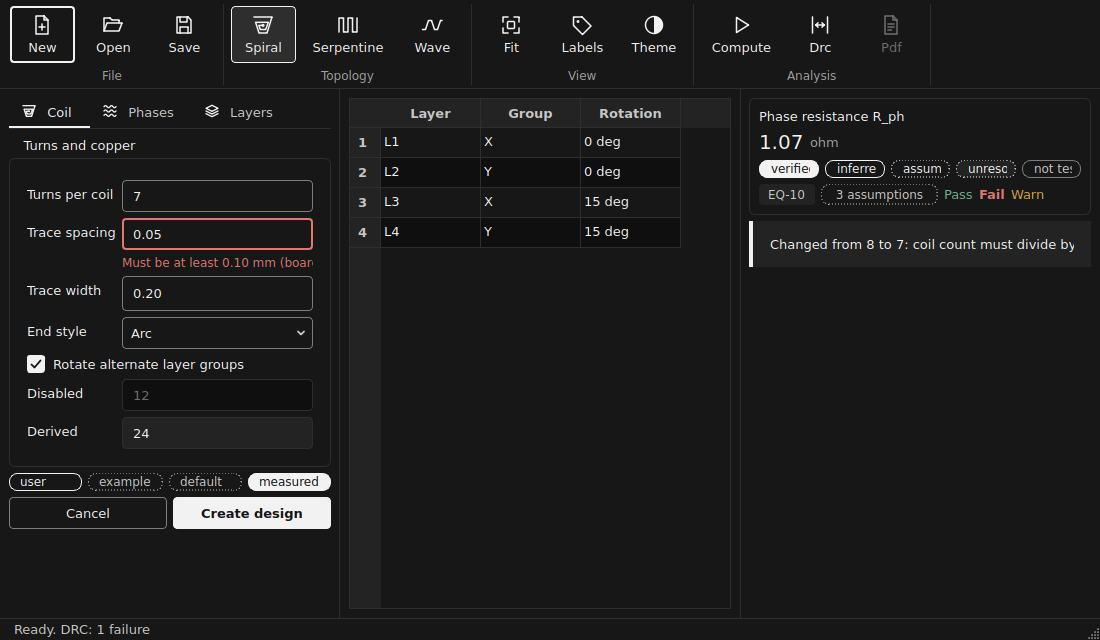
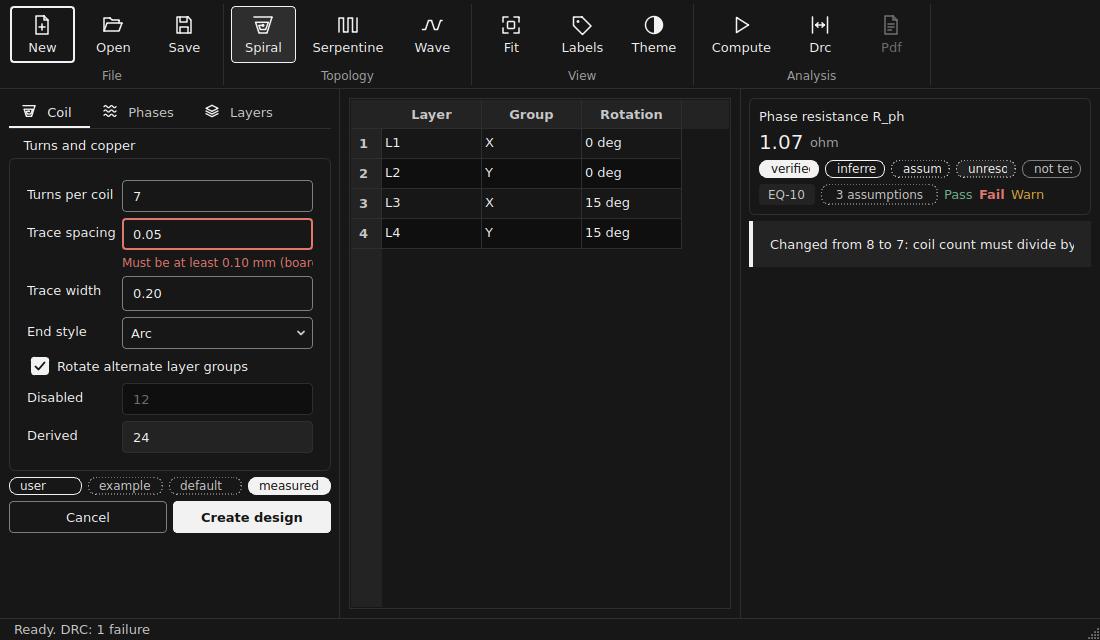
design(theme): focus ring for the current tab, the whole checkbox and item views in the QSS template (U-S4d d)
qss_smoke focuses a tab bar, two checkboxes and a list and fails when one gains no ring;
removing the tab rule makes it exit 1. FocusRingTabBar and SHELL_QSS can go.

Claude-Session: https://claude.ai/code/session_01PdxuwFsNhRRoLCq8bz1jwt

diff --git a/tools/design/qss_smoke.py b/tools/design/qss_smoke.py
@@ -5,8 +5,9 @@ Usage, from the repository root::
     QT_QPA_PLATFORM=offscreen python tools/design/qss_smoke.py [--out docs/phase2/design]
 
 Builds one widget of every styled kind, saves ``theme_smoke_<theme>.png`` into ``--out``, and compares four sampled
-pixels per theme with their tokens (result-card border and fill, primary button fill, invalid-field border). Exit
-code 1 when a pixel differs or Qt prints a message other than the offscreen plugin's propagateSizeHints notice.
+pixels per theme with their tokens (result-card border and fill, primary button fill, invalid-field border). Then it
+focuses a tab bar, two checkboxes and a list and counts the ring pixels each gains. Exit code 1 when a pixel differs,
+a focused widget shows no ring, or Qt prints a message other than the offscreen plugin's propagateSizeHints notice.
 """
 
 import argparse
@@ -17,7 +18,7 @@ from pathlib import Path
 
 os.environ.setdefault("QT_QPA_PLATFORM", "offscreen")
 from PySide6.QtCore import QByteArray, QDir, QPoint, QSize, Qt, qInstallMessageHandler
-from PySide6.QtGui import QIcon, QImage, QPainter, QPixmap, QStandardItem, QStandardItemModel
+from PySide6.QtGui import QColor, QIcon, QImage, QPainter, QPixmap, QStandardItem, QStandardItemModel
 from PySide6.QtSvg import QSvgRenderer
 from PySide6.QtWidgets import (
     QApplication,
@@ -30,8 +31,10 @@ from PySide6.QtWidgets import (
     QHBoxLayout,
     QLabel,
     QLineEdit,
+    QListWidget,
     QMainWindow,
     QPushButton,
+    QTabBar,
     QTableView,
     QTabWidget,
     QToolBar,
@@ -244,6 +247,49 @@ def check_theme(theme: str, out: Path, app: QApplication, messages: list[str]) -
     return failures
 
 
+def focus_failures(theme: str, app: QApplication) -> list[str]:
+    """Focus a tab bar, a checked and an unchecked checkbox and a list; each must gain a ring of ``focus-ring`` pixels.
+
+    The threshold is the one of the app's AX-03 test: at least twice the widget's shorter side in ring-coloured pixels.
+    """
+    ring = QColor(TOKENS["themes"][theme]["color"]["focus-ring"])
+    host = QWidget()
+    lay = QVBoxLayout(host)
+    tabs = QTabBar()
+    for label in ("Coil", "Phases", "Layers"):
+        tabs.addTab(label)
+    unchecked, checked = QCheckBox("L1"), QCheckBox("L2")
+    checked.setChecked(True)
+    issues = QListWidget()
+    issues.addItem("No issues.")
+    park = QLineEdit()
+    for w in (tabs, unchecked, checked, issues, park):
+        lay.addWidget(w)
+    host.show()
+    host.activateWindow()
+    app.processEvents()
+
+    def ring_px(w: QWidget) -> int:
+        image = w.grab().toImage()
+        return sum(
+            1 for x in range(image.width()) for y in range(image.height()) if image.pixelColor(x, y).rgb() == ring.rgb()
+        )
+
+    failures = []
+    for name, w in (("tab", tabs), ("checkbox", unchecked), ("checked checkbox", checked), ("list", issues)):
+        park.setFocus(Qt.FocusReason.TabFocusReason)
+        app.processEvents()
+        before = ring_px(w)
+        w.setFocus(Qt.FocusReason.TabFocusReason)
+        app.processEvents()
+        gained, need = ring_px(w) - before, 2 * min(w.width(), w.height())
+        print(f"{theme:5} focus {name:16} +{gained} ring px (needs {need}) {'ok' if gained >= need else 'MISSING'}")
+        if gained < need:
+            failures.append(f"{theme}: focused {name} shows no focus ring")
+    host.close()
+    return failures
+
+
 def main() -> int:
     """Run both themes; return 1 on any failure."""
     parser = argparse.ArgumentParser(description=__doc__.splitlines()[0])
@@ -255,6 +301,9 @@ def main() -> int:
     app = QApplication(sys.argv)
     QDir.addSearchPath("theme", str(RES / "themes"))
     failures = check_theme("light", out, app, messages) + check_theme("dark", out, app, messages)
+    for theme in ("light", "dark"):
+        app.setStyleSheet((RES / "themes" / f"{theme}.qss").read_text(encoding="utf-8"))
+        failures += focus_failures(theme, app)
     for f in failures:
         print("FAIL", f)
     print(f"qss_smoke: {'FAIL' if failures else 'pass'} ({len(failures)} failures)")
